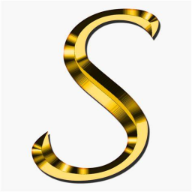
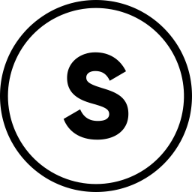
commit

diff --git a/index.html b/index.html
@@ -2,9 +2,9 @@
 <html lang="en">
   <head>
     <meta charset="UTF-8" />
-    <link rel="icon" type="image/svg+xml" href="src/components/images/sahil.png" />
+    <link rel="icon" type="image/svg+xml" href="public/android-chrome-512x512.png" />
     <meta name="viewport" content="width=device-width, initial-scale=1.0" />
-    <title>Sahil's Portfolio</title>
+    <title>Sahil Gupta</title>
   </head>
   <body>
     <div id="root"></div>
